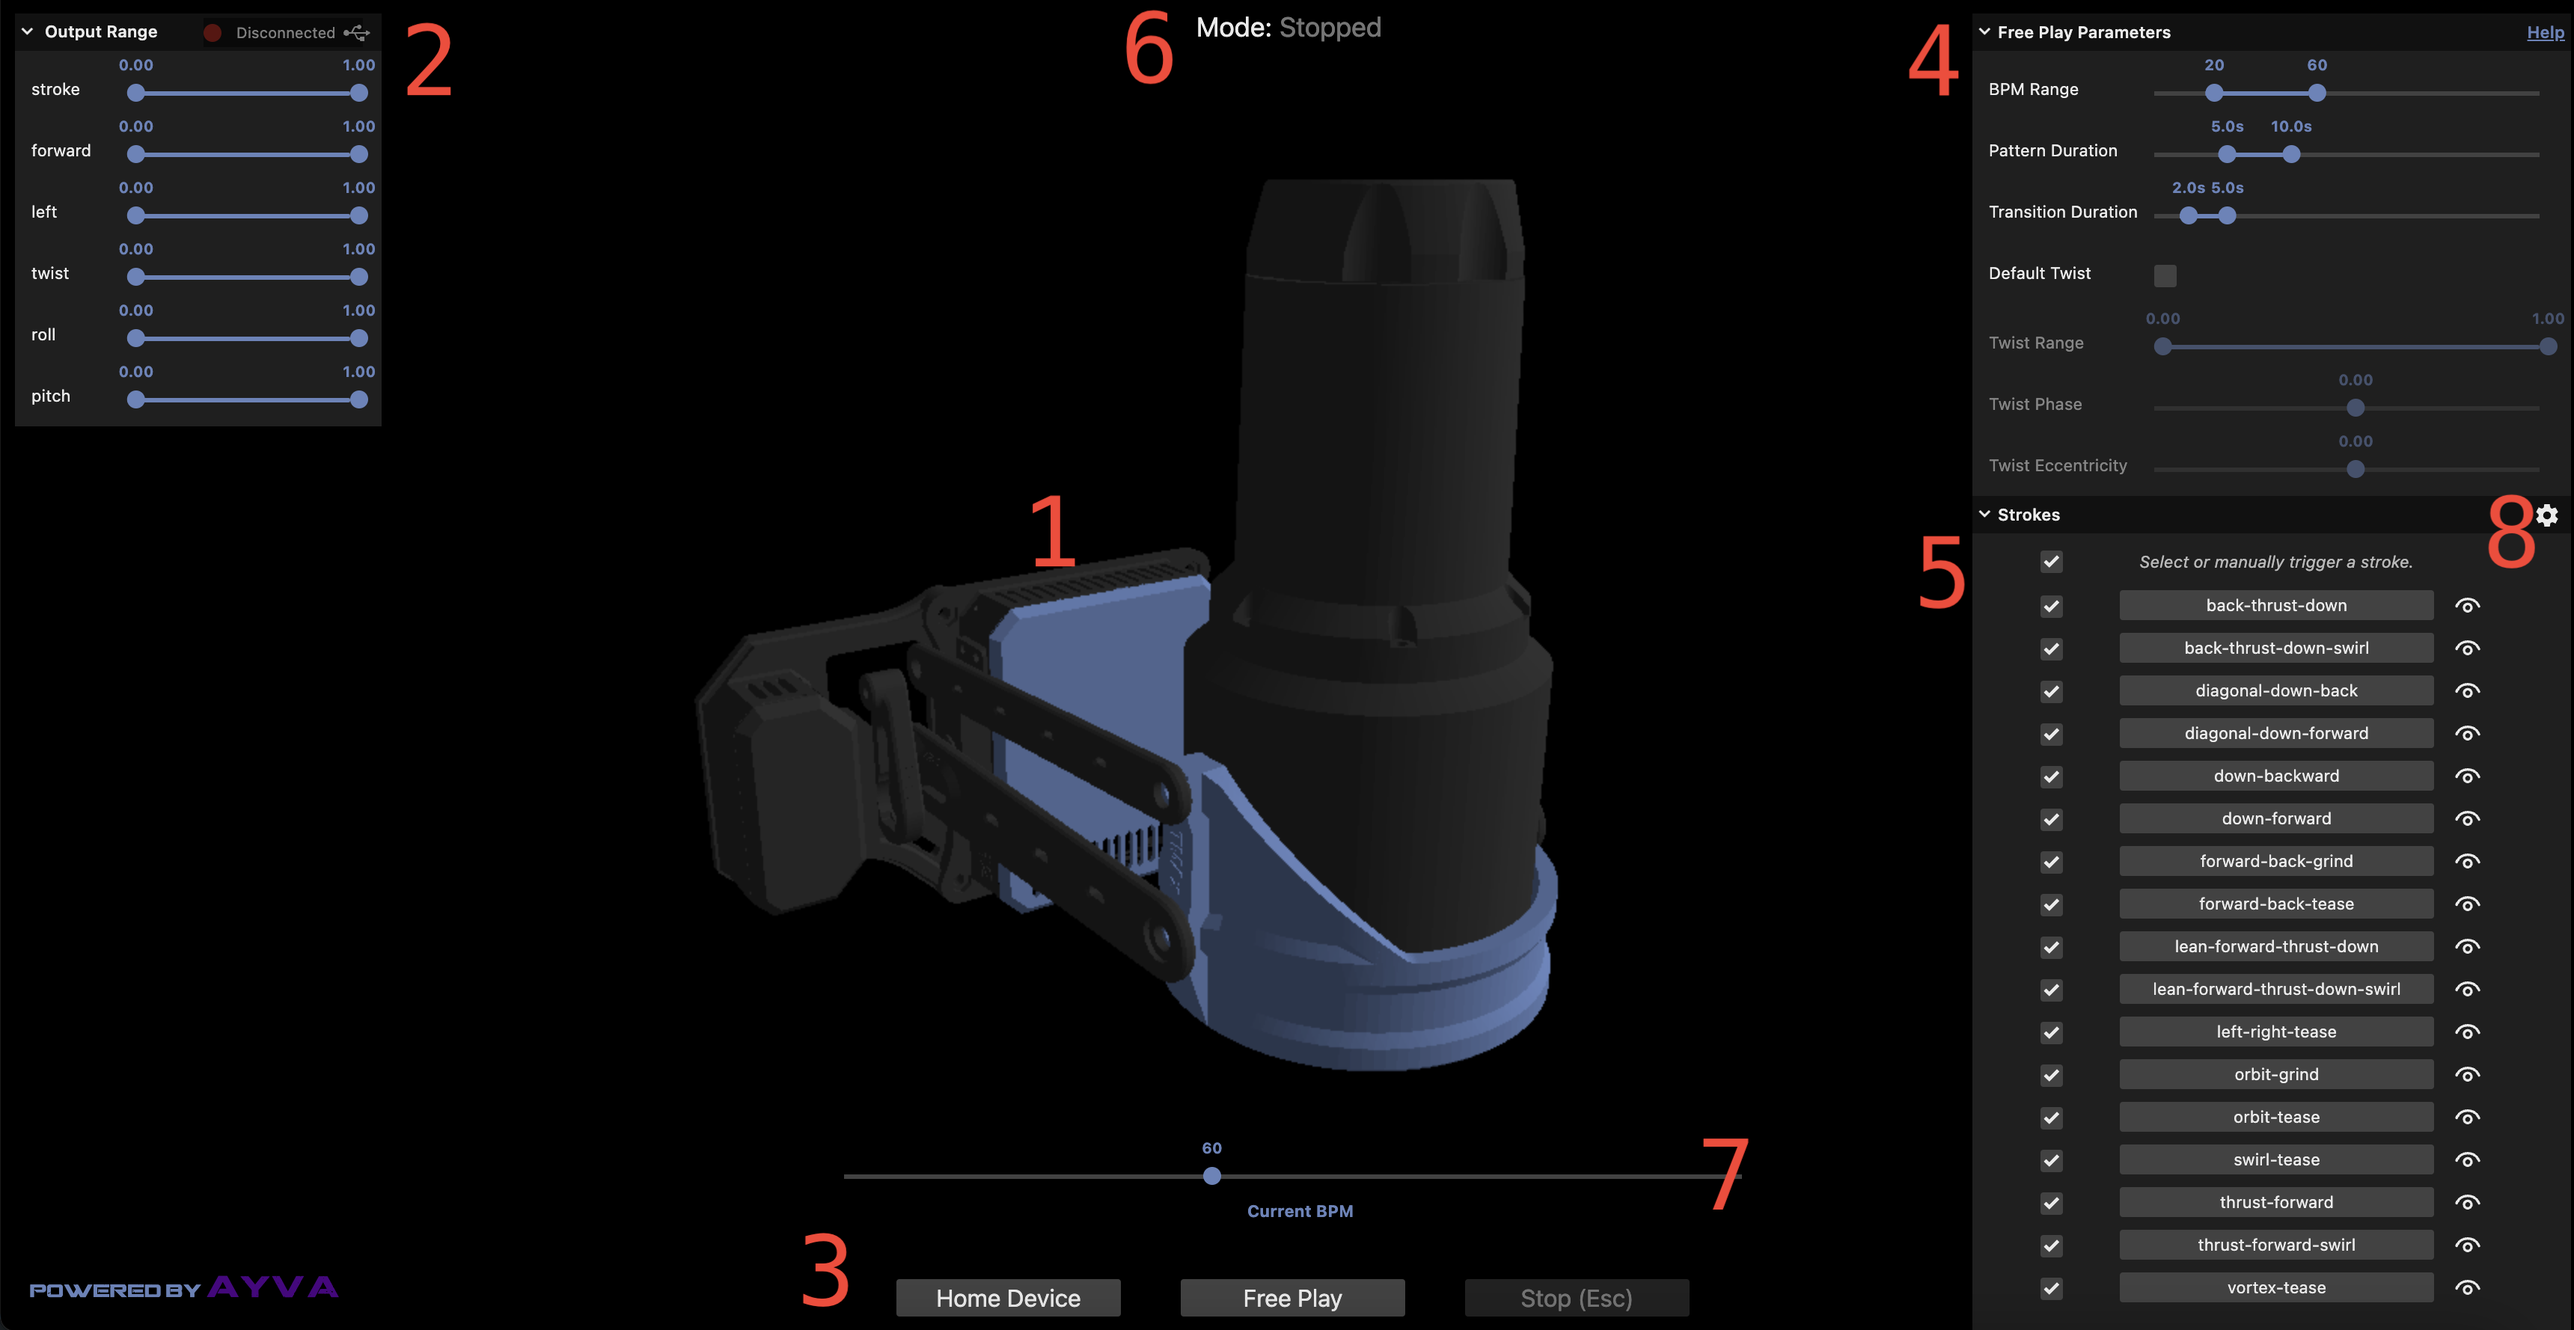
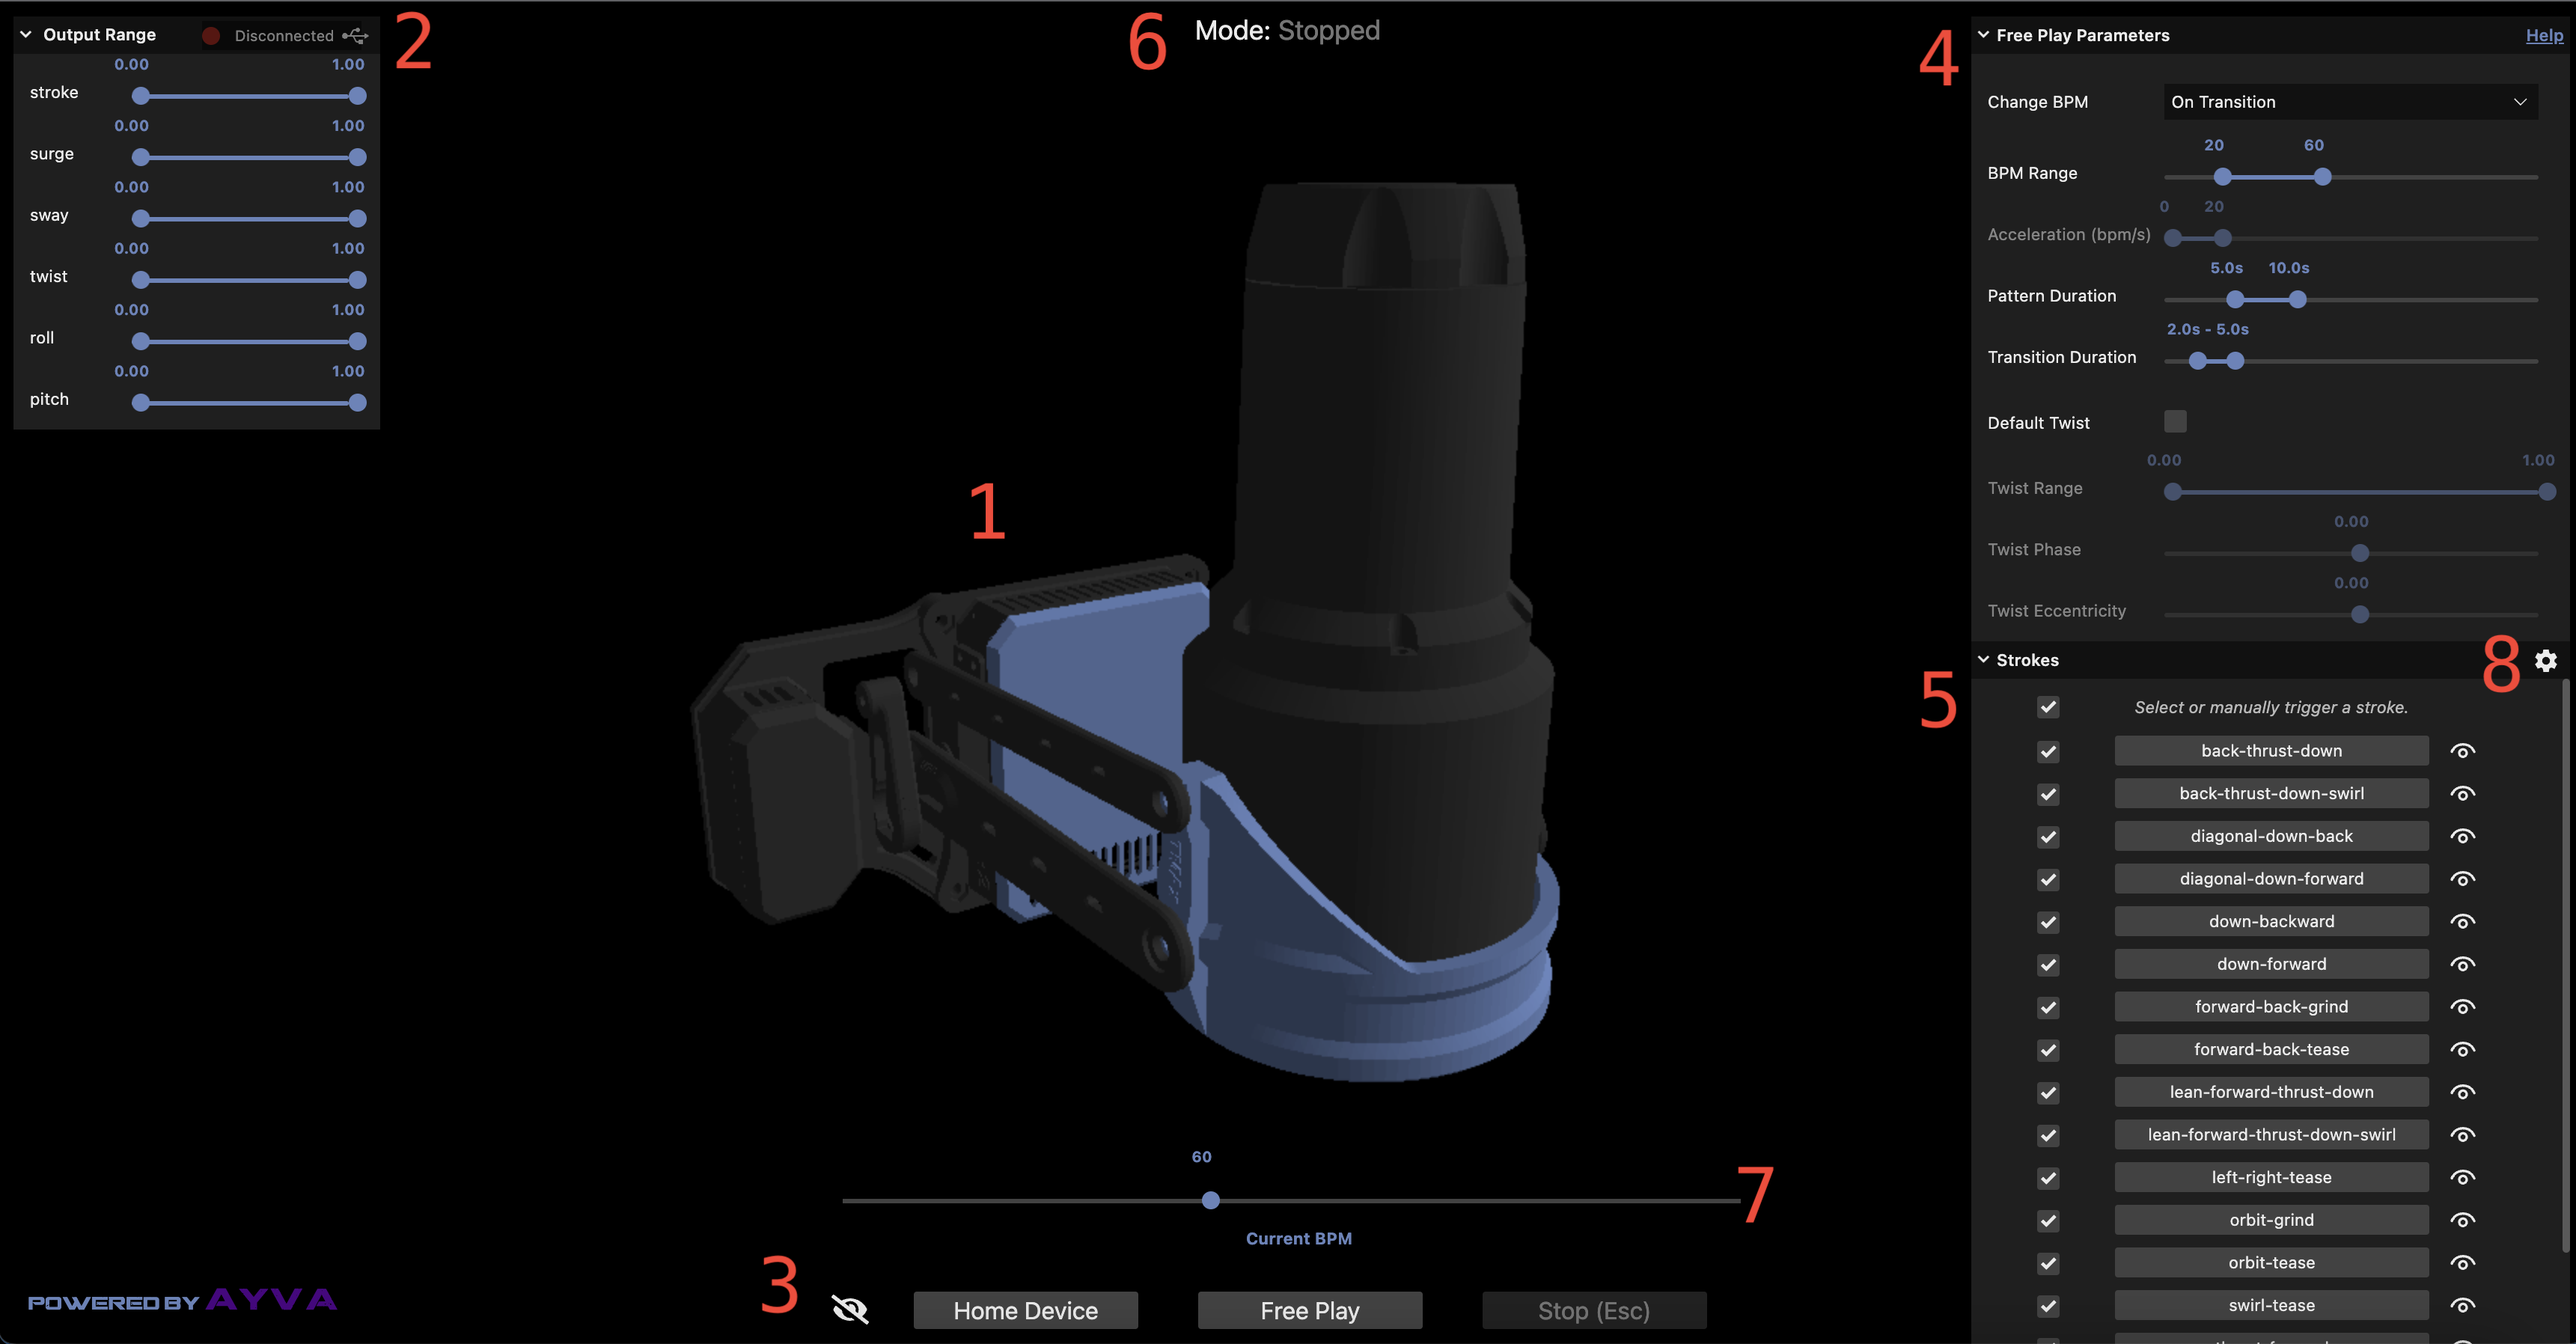
Update documentation for next Ayva Stroker Release.

diff --git a/docs/tutorial-ayva-stroker-lite.html b/docs/tutorial-ayva-stroker-lite.html
@@ -136,14 +136,15 @@
 </style>
 <p>Features:</p>
 <ul>
-<li>Create, import, and export your own custom multiaxis strokes.</li>
+<li>Create, import, and export your own custom multiaxis strokes with variations.</li>
 <li>Run any <a href="https://ayvajs.github.io/ayvajs-docs/tutorial-behavior-api-tempest-stroke.html" target="_blank">TempestStroke</a> in Ayva's library.</li>
 <li>Change the speed (bpm) of the currently running stroke.</li>
 <li>Enter Free Play mode where strokes are randomly selected according to user preferences.</li>
 <li>Set the duration range for random strokes.</li>
 <li>Smooth transitions between strokes.</li>
 <li>Set the duration range for transitions.</li>
-<li>Set the bpm range (the speed of the next stroke is randomly selected).</li>
+<li>Set the bpm range.</li>
+<li>Set the bpm to change continuously or only on transitions to the next stroke.</li>
 <li>Enable default twist movements.</li>
 <li>Choose what strokes to include in Free Play mode.</li>
 <li>Set device output limits.</li>
@@ -181,15 +182,23 @@
 <h3 id="controls">3. Controls</h3>
 <img width="500px" src="./images/stroker-lite-guide-controls.png">  
 <ul>
+<li><strong>Eye Icon</strong>: Hide/show the UI.</li>
 <li><strong>Home Device</strong>: Stops the current behavior and moves the device to the home position.</li>
 <li><strong>Free Play</strong>: Commands Ayva to start playing strokes randomly according to the current parameters.</li>
 <li><strong>Stop (Esc)</strong>: Immediately stops the current behavior and ceases to send any output to the device. Pressing the <em>Escape</em> key will also trigger this action.</li>
 </ul>
 <h3 id="parameters">4. Parameters</h3>
 <p><img width="500px" src="./images/stroker-lite-guide-parameters.png"><br/></p>
-<p>This section allows you to set the parameters that are used during free play mode (and some for manually triggered strokes). All parameters in this section only take effect on the <em>next</em> stroke played.</p>
+<p>This section allows you to set the parameters that are used during free play mode (and some for manually triggered strokes). Most parameters in this section take effect on the <em>next</em> stroke played.</p>
 <ul>
+<li><strong>Change BPM</strong>: Select when to change the BPM. The options are:
+<ul>
+<li><em>On Transition</em> - changes the BPM when a new stroke is selected.</li>
+<li><em>Continuously</em> - continuously changes the BPM.</li>
+</ul>
+</li>
 <li><strong>BPM Range</strong>: The speed range of strokes in beats per minute. When a stroke is randomly selected, it will pick a random speed within this range.</li>
+<li><strong>Acceleration (bpm/s)</strong>: How fast to change the BPM in units of BPM per second. This is only enabled when in <em>Continuous</em> BPM change mode.</li>
 <li><strong>Pattern Duration</strong>: The duration range of strokes in seconds. When a stroke is randomly selected, it will last for a random amount of seconds within this range.</li>
 <li><strong>Transition Duration</strong>: The duration range for smooth transitions in seconds. When a new stroke is starting, the transition into the new stroke will take a random amount of seconds within this range.</li>
 <li><strong>Default Twist</strong>: This option allows you to add custom motion to the twist axis for any stroke that doesn't have it (i.e. the twist motion specified here only takes effect if the current stroke playing does not have its own twist).</li>
@@ -225,6 +234,7 @@
       <li><b>Range:</b> The left slider sets the range. This is a dual slider specifying the <i>from</i> and <i>to</i> values for the motion. The knobs can be slid past each other to change the shape of the motion, as well as be set to the same value if you want the axis to hold a value for the duration of the motion.</li>
       <li><b>Phase:</b> The bottom left slider sets the phase of the motion.</li>
       <li><b>Eccentricity:</b> The bottom right slider sets the eccentricity of the motion.</li>
+      <li><b>Noise:</b> The two knobs on the bottom right set the noise (amount of variation) for either end of the range of motion.
       <li><b>Function:</b> The bottom right icon (fx) allows you to change the mathematical function. The options are <i>Sinusoidal</i>, <i>Parabolic</i>, or <i>Linear</i></li>
     </ul>
     Use the middle mouse over a graph to quickly expand or contract the range.

diff --git a/tutorials/ayva-stroker-lite.md b/tutorials/ayva-stroker-lite.md
@@ -7,14 +7,15 @@
 </style>
 Features:
 
-- Create, import, and export your own custom multiaxis strokes.
+- Create, import, and export your own custom multiaxis strokes with variations.
 - Run any <a href="https://ayvajs.github.io/ayvajs-docs/tutorial-behavior-api-tempest-stroke.html" target="_blank">TempestStroke</a> in Ayva's library.
 - Change the speed (bpm) of the currently running stroke.
 - Enter Free Play mode where strokes are randomly selected according to user preferences.
 - Set the duration range for random strokes.
 - Smooth transitions between strokes.
 - Set the duration range for transitions.
-- Set the bpm range (the speed of the next stroke is randomly selected).
+- Set the bpm range.
+- Set the bpm to change continuously or only on transitions to the next stroke.
 - Enable default twist movements.
 - Choose what strokes to include in Free Play mode.
 - Set device output limits.
@@ -62,6 +63,7 @@ The button in the top right gives the device connection status. Clicking it will
 
 <img width="500px" src="./images/stroker-lite-guide-controls.png">  
 
+- __Eye Icon__: Hide/show the UI.
 - __Home Device__: Stops the current behavior and moves the device to the home position.
 - __Free Play__: Commands Ayva to start playing strokes randomly according to the current parameters.
 - __Stop (Esc)__: Immediately stops the current behavior and ceases to send any output to the device. Pressing the _Escape_ key will also trigger this action.
@@ -70,9 +72,13 @@ The button in the top right gives the device connection status. Clicking it will
 
 <img width="500px" src="./images/stroker-lite-guide-parameters.png"><br/>  
 
-This section allows you to set the parameters that are used during free play mode (and some for manually triggered strokes). All parameters in this section only take effect on the _next_ stroke played.
+This section allows you to set the parameters that are used during free play mode (and some for manually triggered strokes). Most parameters in this section take effect on the _next_ stroke played.
 
+- __Change BPM__: Select when to change the BPM. The options are:
+  - _On Transition_ - changes the BPM when a new stroke is selected.
+  - _Continuously_ - continuously changes the BPM.
 - __BPM Range__: The speed range of strokes in beats per minute. When a stroke is randomly selected, it will pick a random speed within this range.
+- __Acceleration (bpm/s)__: How fast to change the BPM in units of BPM per second. This is only enabled when in _Continuous_ BPM change mode.
 - __Pattern Duration__: The duration range of strokes in seconds. When a stroke is randomly selected, it will last for a random amount of seconds within this range.
 - __Transition Duration__: The duration range for smooth transitions in seconds. When a new stroke is starting, the transition into the new stroke will take a random amount of seconds within this range.
 - __Default Twist__: This option allows you to add custom motion to the twist axis for any stroke that doesn't have it (i.e. the twist motion specified here only takes effect if the current stroke playing does not have its own twist).
@@ -124,6 +130,7 @@ The stroke designer can be accessed by clicking the _gear_ icon in the top right
       <li><b>Range:</b> The left slider sets the range. This is a dual slider specifying the <i>from</i> and <i>to</i> values for the motion. The knobs can be slid past each other to change the shape of the motion, as well as be set to the same value if you want the axis to hold a value for the duration of the motion.</li>
       <li><b>Phase:</b> The bottom left slider sets the phase of the motion.</li>
       <li><b>Eccentricity:</b> The bottom right slider sets the eccentricity of the motion.</li>
+      <li><b>Noise:</b> The two knobs on the bottom right set the noise (amount of variation) for either end of the range of motion.
       <li><b>Function:</b> The bottom right icon (fx) allows you to change the mathematical function. The options are <i>Sinusoidal</i>, <i>Parabolic</i>, or <i>Linear</i></li>
     </ul>
     Use the middle mouse over a graph to quickly expand or contract the range.
